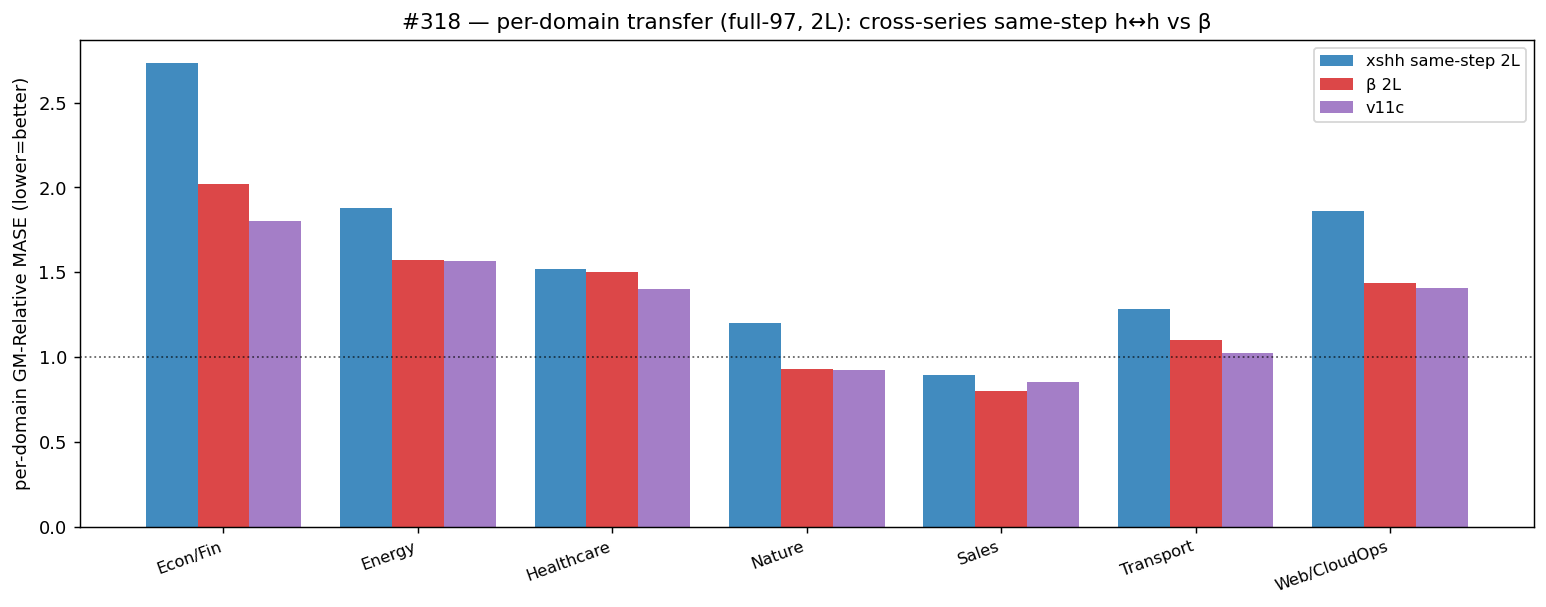
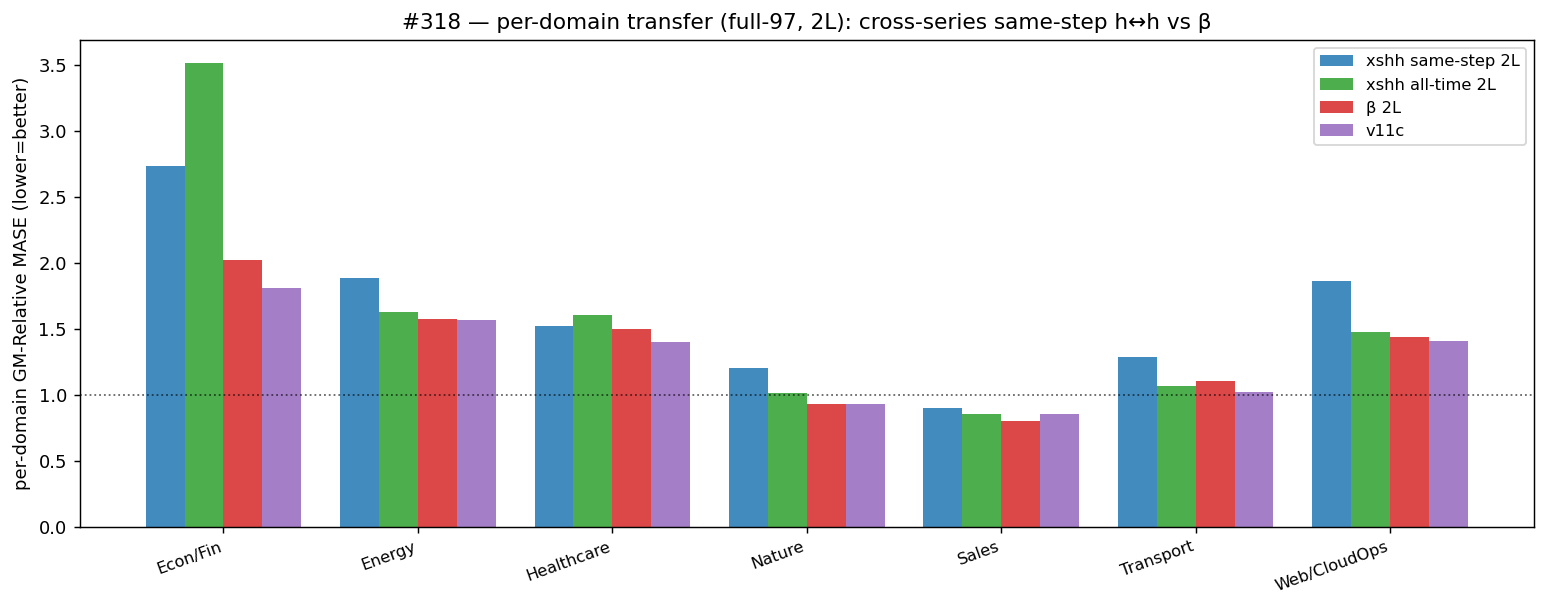
results(#318): all-time 2L full-97 = 1.4143 — both arms hurt, targeted worse than broad
all-time 2L full 1.4143 (+6.6% vs β 1.3272) vs same-step 1.6194 (+22%); v11c
1.292. Both arms worse than β — hypothesis falsified. Counterintuitively the
TARGETED same-step edge hurts MORE than the broad all-time one. all-time 6L
OOM'd (external job filled GPU 1) — re-running.

diff --git a/experiments/2026-05-23_xseries_hh/RESULTS.md b/experiments/2026-05-23_xseries_hh/RESULTS.md
@@ -134,7 +134,7 @@ _(landing)_
 | **β** (#309) | 6L | _(landing)_ | 1.5271 |
 | **xshh same-step** | 2L | **1.6194** | 1.9816 |
 | **xshh same-step** | 6L | 1.6181 | 1.8762 |
-| **xshh all-time** | 2L | _(landing)_ | 1.6126 |
+| **xshh all-time** | 2L | **1.4143** | 1.6126 |
 | **xshh all-time** | 6L | _(landing)_ | _(landing)_ |
 | v11c (ref) | 2L | 1.292 | — |
 
@@ -146,10 +146,14 @@ _(landing)_
 > cross-series same-step repulsion **does not deny a free positional shortcut;
 > it removes broadly-useful content** (worse on all 7 domains, see below).
 >
-> **The broad (all-time) repulsion is *less* harmful than the targeted
-> (same-step) one** — counterintuitive: all-time 2L triage-11 = **1.6126** vs
-> same-step's 1.9816 (β 1.4836). The all-time full-97 (+ 6L), β's 6L, and
-> GM-vs-step are still landing before the final verdict.
+> **Both arms are worse than β, and the broad (all-time) repulsion hurts far
+> *less* than the targeted (same-step) one** — the opposite of what the
+> hypothesis predicted (it expected the *targeted* same-step edge to help most).
+> full-97 2L: all-time **1.4143** (+6.6% vs β 1.3272) vs same-step **1.6194**
+> (+22%); v11c 1.292. So adding cross-series h↔h negatives **hurts transfer**,
+> and *concentrating* it on the same step hurts more, not less. (all-time 6L is
+> re-running after an external job transiently filled GPU 1; β 6L full-97 and
+> GM-vs-step still landing.)
 
 ![gm summary](plots/gm_summary.png)
 
